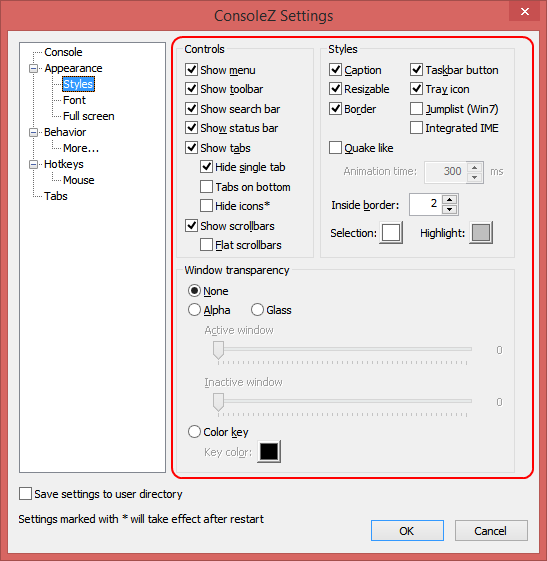
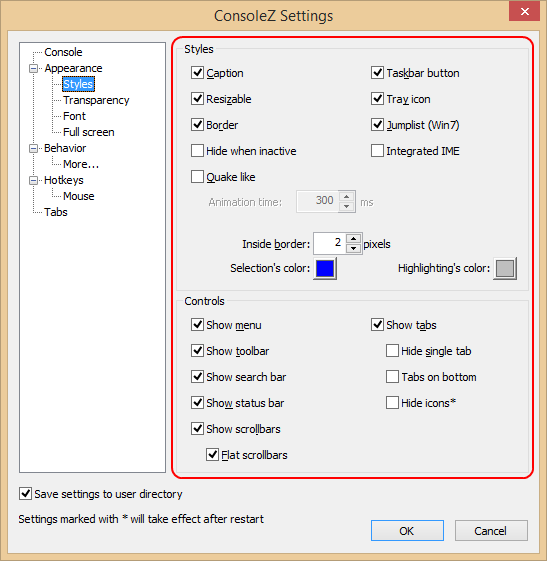
update documentation

Changed region(s): [[0.0, 0.0, 1.0, 1.0]]

diff --git a/help/html/settings_appearance_styles.html b/help/html/settings_appearance_styles.html
@@ -14,69 +14,6 @@
 	<img src="../images/settings_appearance_styles.png" />
 	</p>
 
-	<h2>Controls</h2>
-
-	<p class="block-row-name">Show menu</p>
-	<p class="block-row-description">
-		Shows/hides main menu.
-	</p>
-	<br />
-
-	<p class="block-row-name">Show toolbar</p>
-	<p class="block-row-description">
-		Shows/hides toolbar.
-	</p>
-	<br />
-
-	<p class="block-row-name">Show search bar</p>
-	<p class="block-row-description">
-		Shows/hides search bar.
-	</p>
-	<br />
-
-	<p class="block-row-name">Show status bar</p>
-	<p class="block-row-description">
-		Shows/hides status bar.
-	</p>
-	<br />
-
-	<p class="block-row-name">Show tabs</p>
-	<p class="block-row-description">
-		Shows/hides tabs bar.
-	</p>
-	<br />
-
-	<p class="block-row-name">Hide single tab</p>
-	<p class="block-row-description">
-		If checked, tabs bar will be hidden if there's only one tab active.
-	</p>
-	<br />
-
-	<p class="block-row-name">Tabs on bottom</p>
-	<p class="block-row-description">
-		If checked, tabs bar will appear at the bottom of the main window.
-	</p>
-	<br />
-
-	<p class="block-row-name">Hide icons</p>
-	<p class="block-row-description">
-		If checked, icons are hidden in the tabs bar.
-	</p>
-	<br />
-
-	<p class="block-row-name">Show scrollbars</p>
-	<p class="block-row-description">
-		If checked, scrollbars will be shown if the underlying console shows them.
-		If not checked, scrollbars will be always hidden.
-	</p>
-	<br />
-
-	<p class="block-row-name">Flat scrollbars</p>
-	<p class="block-row-description">
-		If checked, the style of the scrollbars will be flat if available.
-	</p>
-	<br />
-
 	<h2>Styles</h2>
 
 	<p class="block-row-name">Caption</p>
@@ -156,38 +93,66 @@
 	</p>
 	<br />
 
+	<h2>Controls</h2>
 
-	<h2>Window transparency</h2>
-
-	<p class="block-row-name">None<br />Alpha<br />Glass<br />Color key</p>
+	<p class="block-row-name">Show menu</p>
 	<p class="block-row-description">
-		Specifies transparency type.
-		<br />
-		Alpha transparency is the 'real' transparency.
-		<br />
-		Vista aero glass effect.
-		<br />
-		Color key transparency allows you to specify a single color that will
-		be made transparent. All window pixels having this color will be 
-		transparent and mouse clicks will pass through transparent areas.
+		Shows/hides main menu.
 	</p>
 	<br />
 
-	<p class="block-row-name">Active window</p>
+	<p class="block-row-name">Show toolbar</p>
 	<p class="block-row-description">
-		Specifies alpha transparency for while ConsoleZ window is active.
+		Shows/hides toolbar.
 	</p>
 	<br />
 
-	<p class="block-row-name">Inactive window</p>
+	<p class="block-row-name">Show search bar</p>
 	<p class="block-row-description">
-		Specifies alpha transparency for while ConsoleZ window is not active.
+		Shows/hides search bar.
 	</p>
 	<br />
 
-	<p class="block-row-name">Key color</p>
+	<p class="block-row-name">Show status bar</p>
 	<p class="block-row-description">
-		Specifies transparency color for 'color key' transparency.
+		Shows/hides status bar.
+	</p>
+	<br />
+
+	<p class="block-row-name">Show tabs</p>
+	<p class="block-row-description">
+		Shows/hides tabs bar.
+	</p>
+	<br />
+
+	<p class="block-row-name">Hide single tab</p>
+	<p class="block-row-description">
+		If checked, tabs bar will be hidden if there's only one tab active.
+	</p>
+	<br />
+
+	<p class="block-row-name">Tabs on bottom</p>
+	<p class="block-row-description">
+		If checked, tabs bar will appear at the bottom of the main window.
+	</p>
+	<br />
+
+	<p class="block-row-name">Hide icons</p>
+	<p class="block-row-description">
+		If checked, icons are hidden in the tabs bar.
+	</p>
+	<br />
+
+	<p class="block-row-name">Show scrollbars</p>
+	<p class="block-row-description">
+		If checked, scrollbars will be shown if the underlying console shows them.
+		If not checked, scrollbars will be always hidden.
+	</p>
+	<br />
+
+	<p class="block-row-name">Flat scrollbars</p>
+	<p class="block-row-description">
+		If checked, the style of the scrollbars will be flat if available.
 	</p>
 	<br />
 

diff --git a/help/html/settings_appearance_transparency.html b/help/html/settings_appearance_transparency.html
@@ -1,0 +1,51 @@
+<!DOCTYPE html PUBLIC "-//W3C//DTD XHTML 1.0 Strict//EN" "http://www.w3.org/TR/xhtml1/DTD/xhtml1-strict.dtd">
+<html xmlns="http://www.w3.org/1999/xhtml" xml:lang="en">
+
+<head>
+	<title>Settings - Appearance (Transparency)</title>
+	<meta http-equiv="content-type" content='text/html; charset=utf-8' />
+	<link rel="stylesheet" type="text/css" href="../styles/help.css" />
+</head>
+
+<body>
+	<h1>Settings - Appearance (Transparency)</h1>
+
+	<p>
+	<img src="../images/settings_appearance_transparency.png" />
+	</p>
+
+	<p class="block-row-name">None<br />Alpha<br />Glass<br />Color key</p>
+	<p class="block-row-description">
+		Specifies transparency type.
+		<br />
+		Alpha transparency is the 'real' transparency.
+		<br />
+		Vista aero glass effect.
+		<br />
+		Color key transparency allows you to specify a single color that will
+		be made transparent. All window pixels having this color will be 
+		transparent and mouse clicks will pass through transparent areas.
+	</p>
+	<br />
+
+	<p class="block-row-name">Active window</p>
+	<p class="block-row-description">
+		Specifies alpha transparency for while ConsoleZ window is active.
+	</p>
+	<br />
+
+	<p class="block-row-name">Inactive window</p>
+	<p class="block-row-description">
+		Specifies alpha transparency for while ConsoleZ window is not active.
+	</p>
+	<br />
+
+	<p class="block-row-name">Key color</p>
+	<p class="block-row-description">
+		Specifies transparency color for 'color key' transparency.
+	</p>
+	<br />
+
+</body>
+
+</html>
